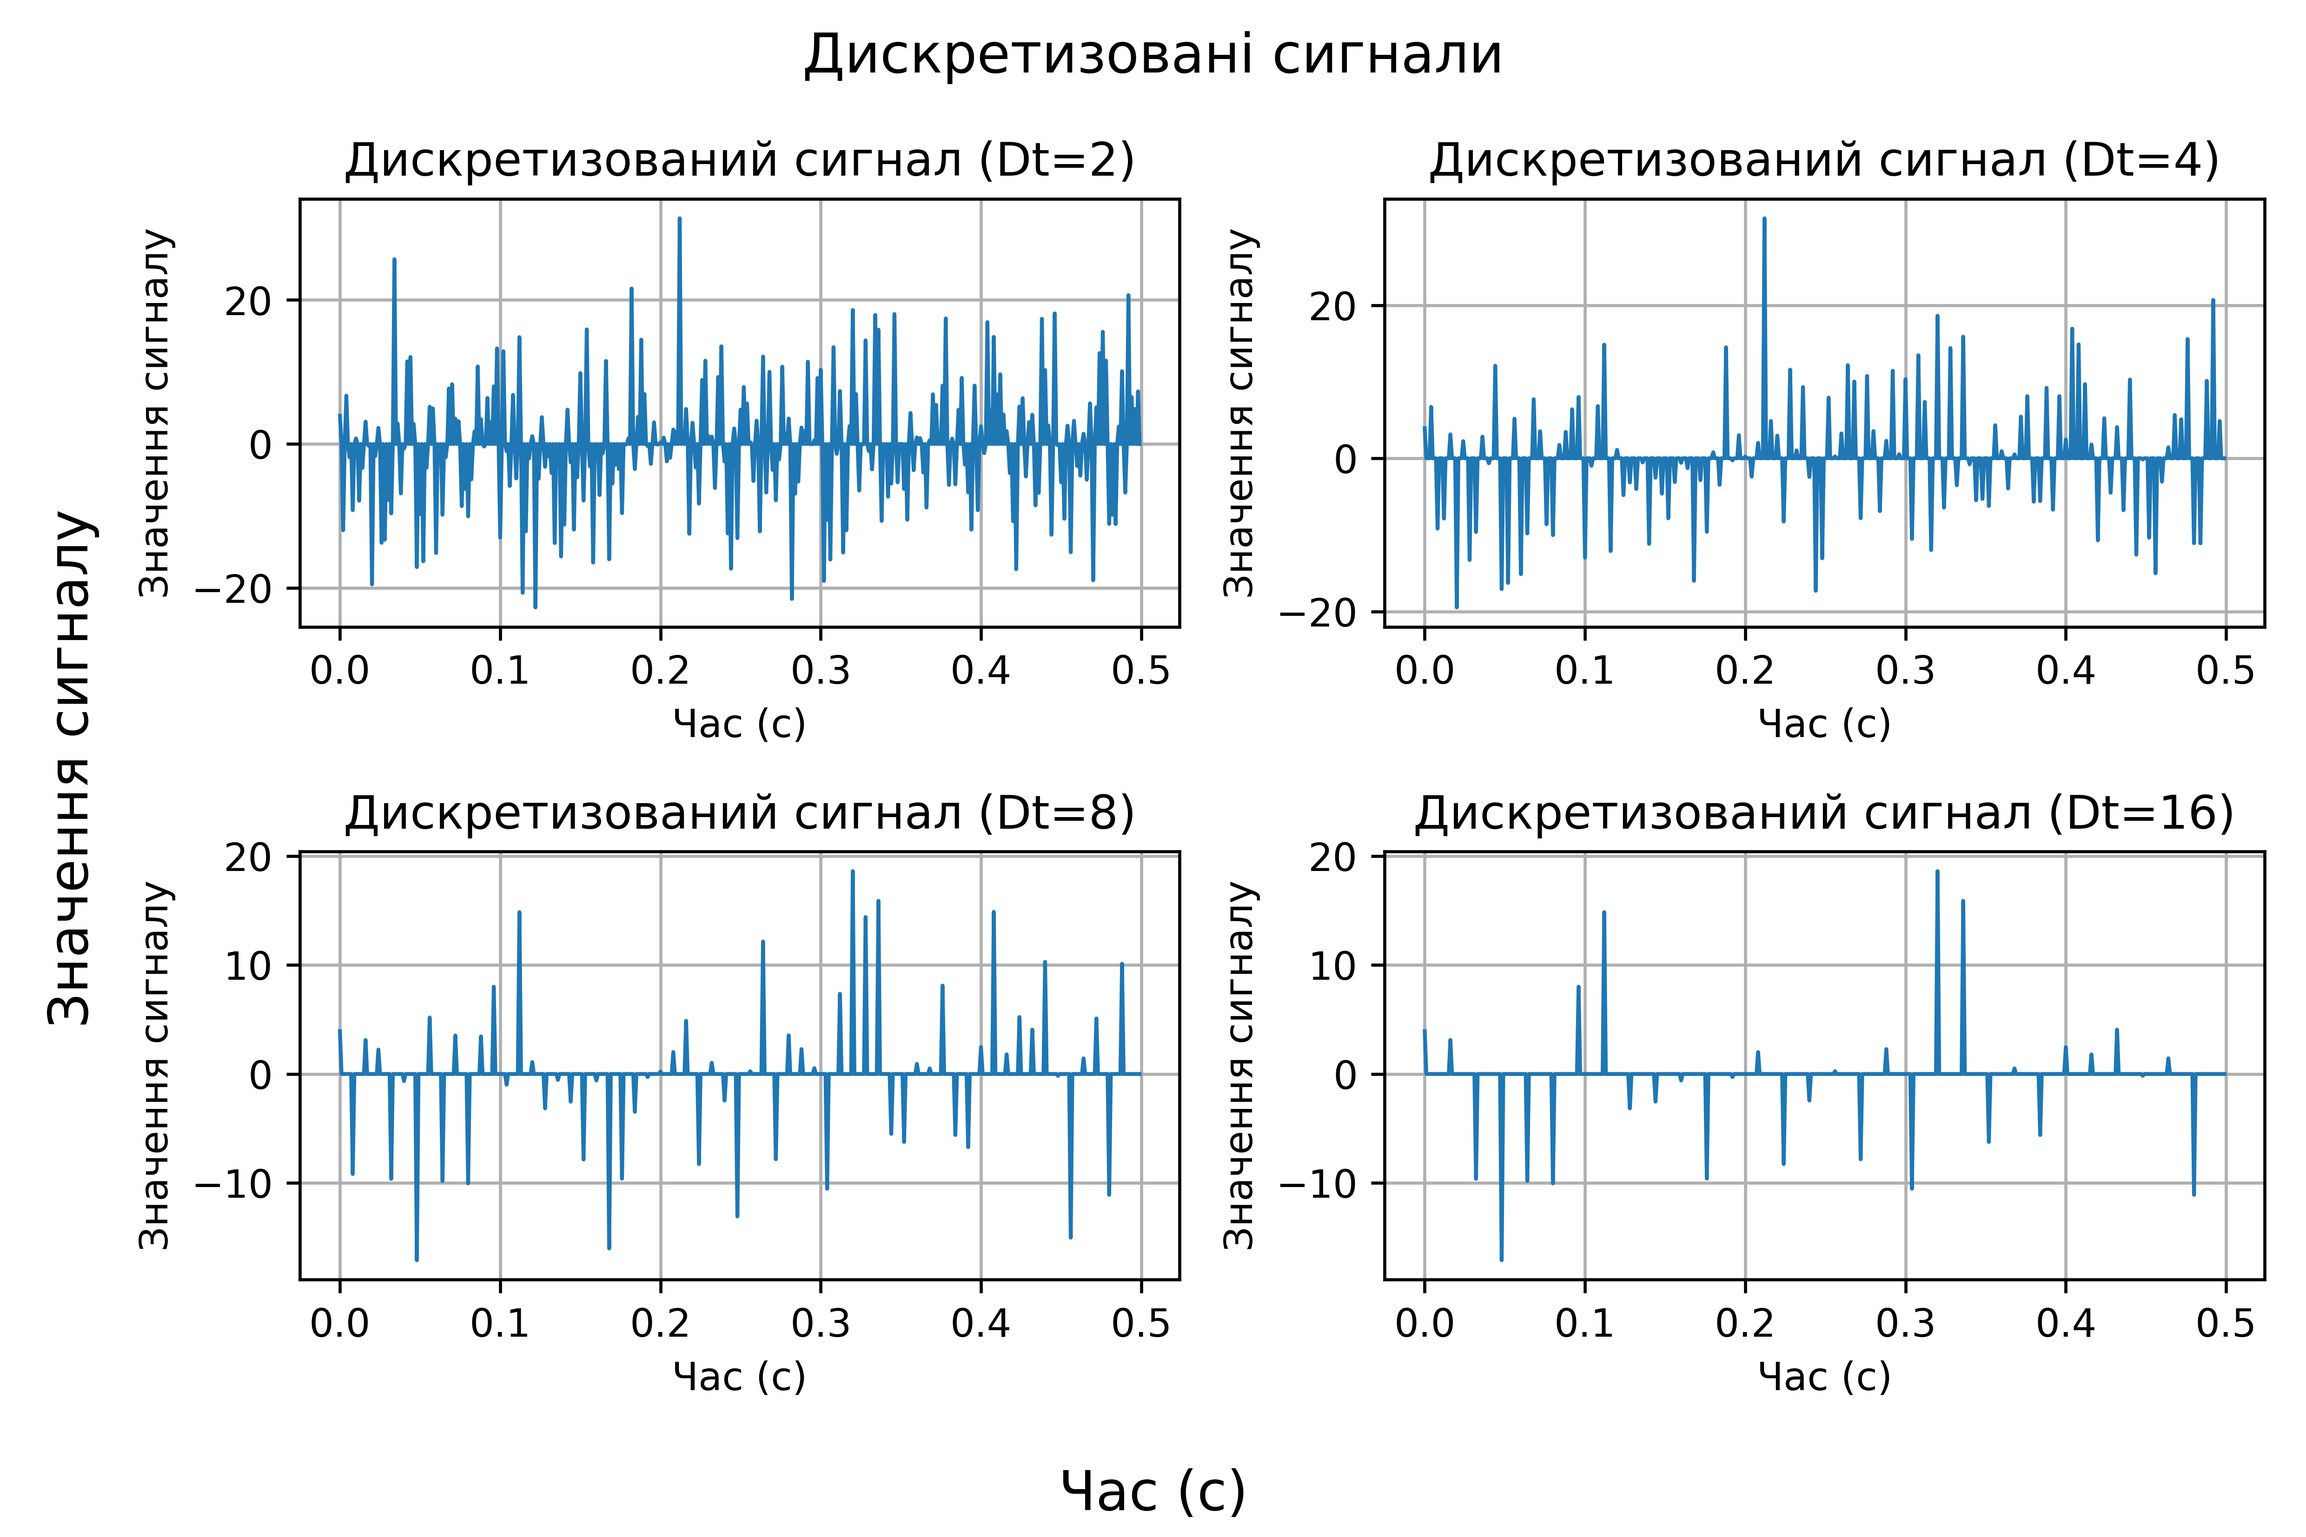
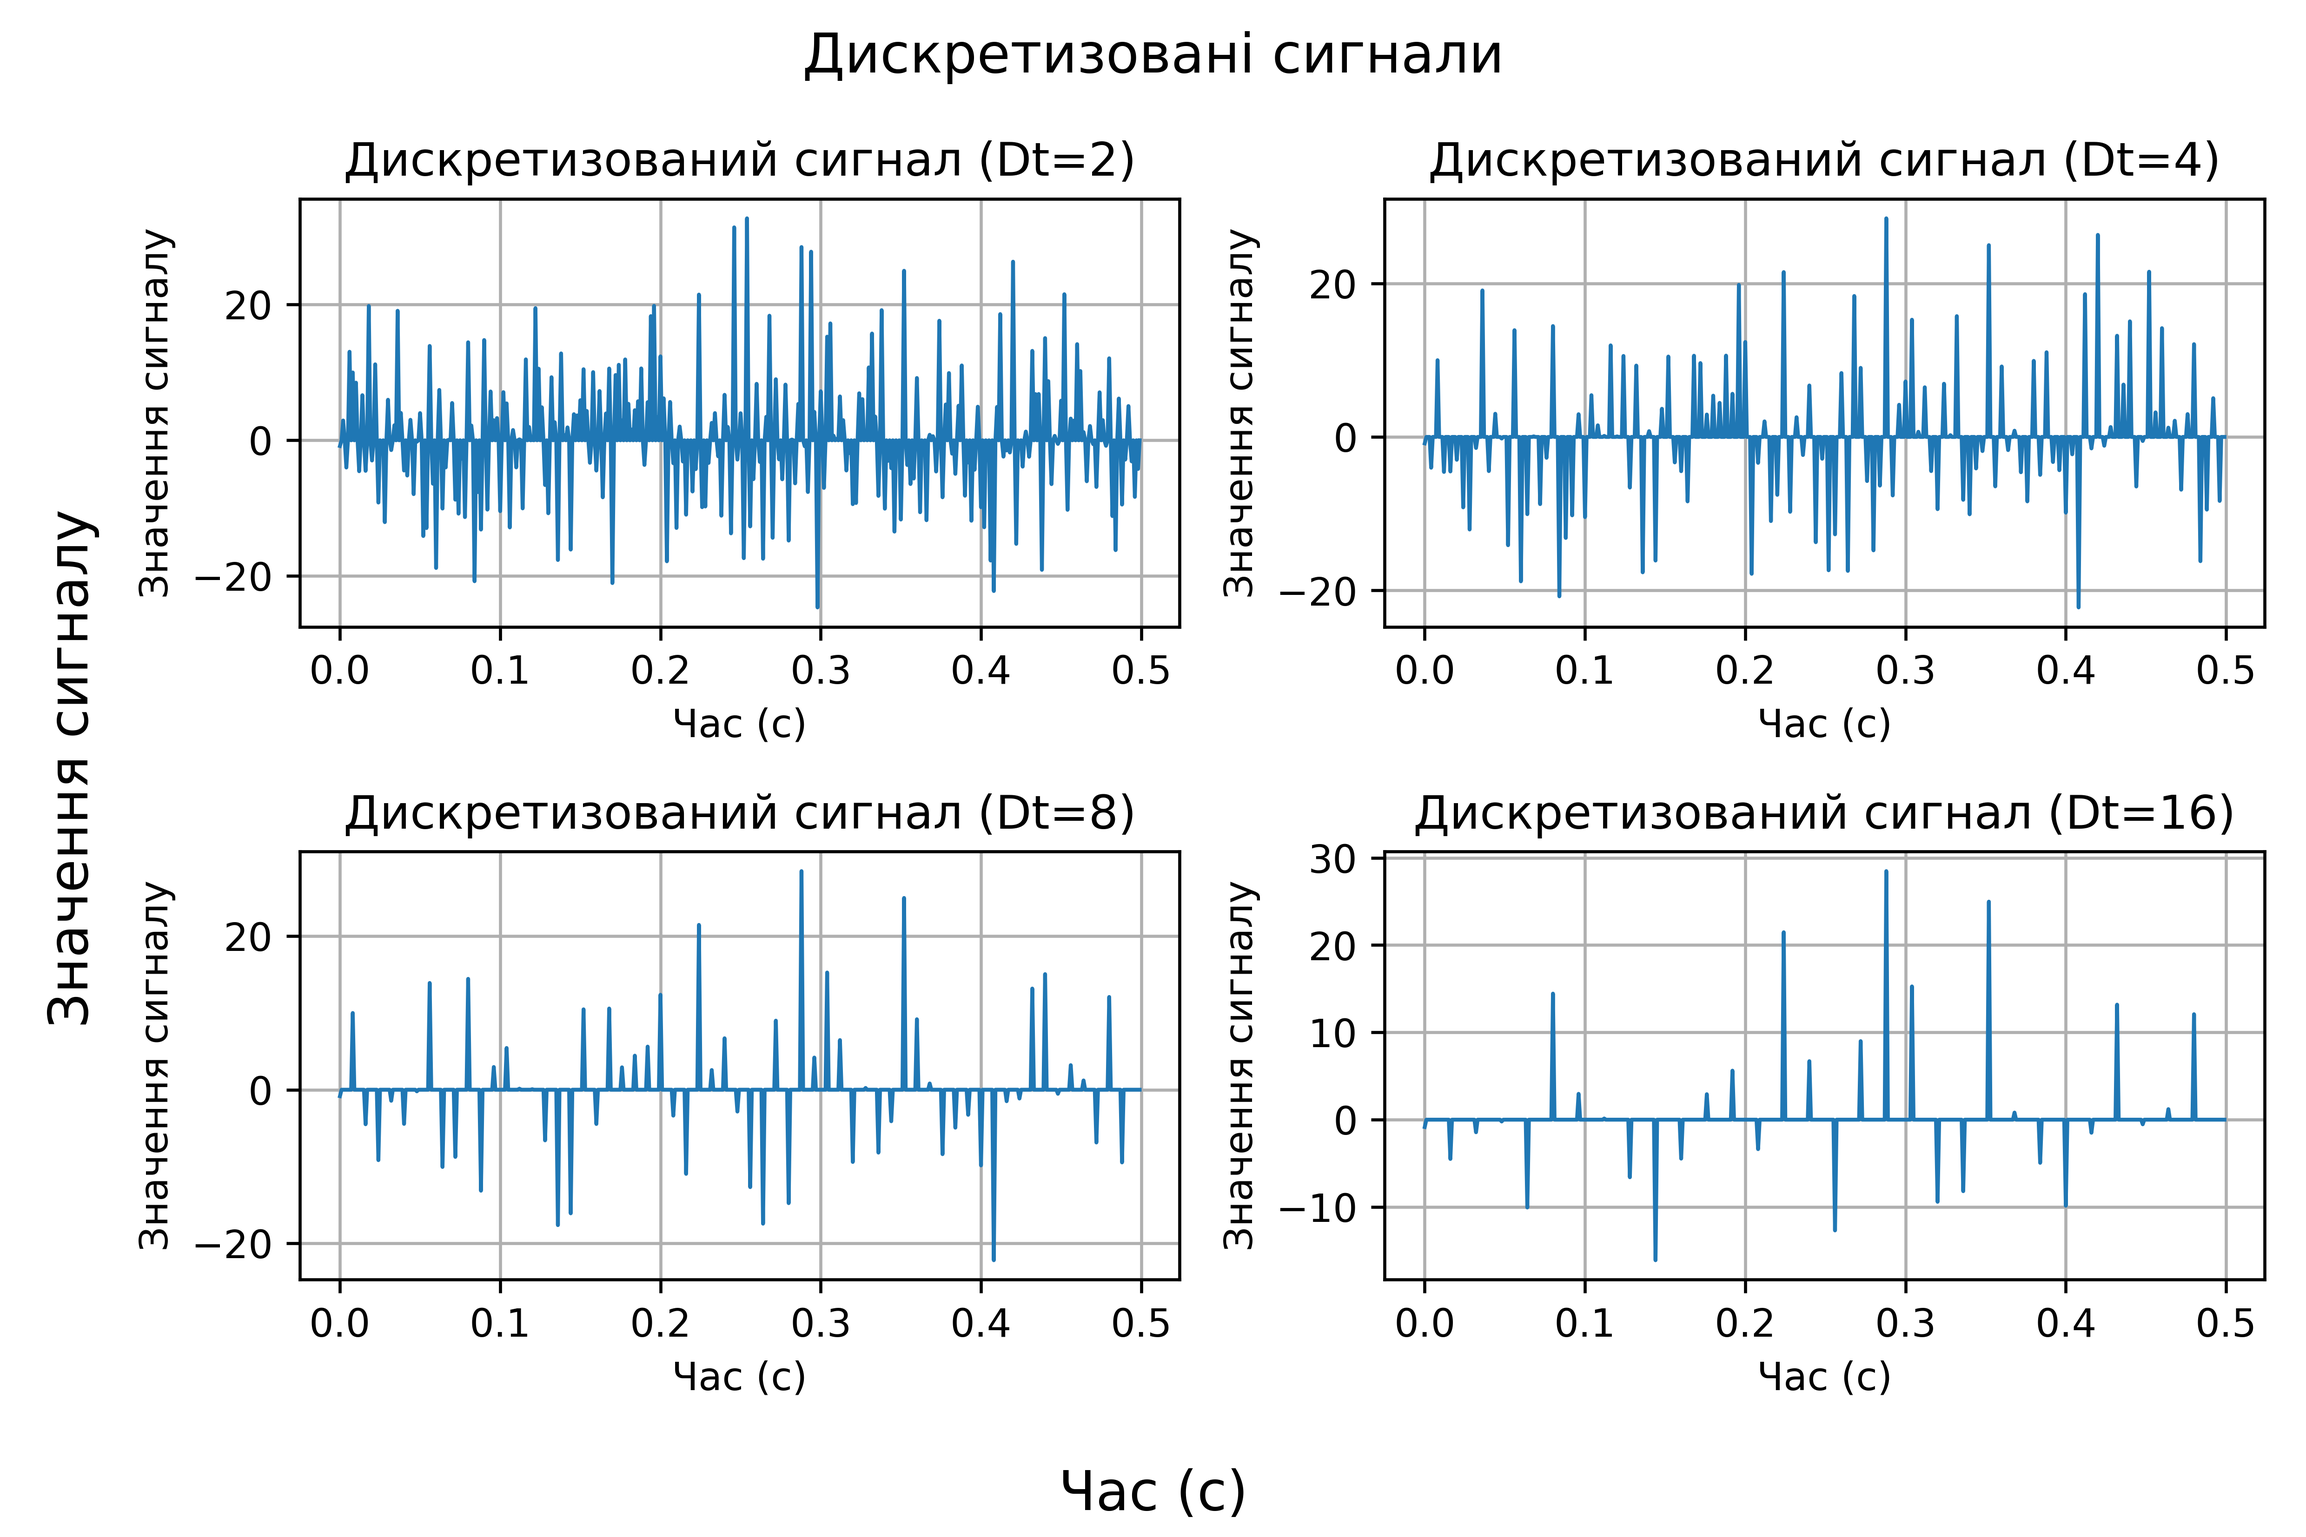
SignalProcessing 3

diff --git a/SignalProcessing/1.py b/SignalProcessing/1.py
@@ -1,157 +1,134 @@
 import numpy as np
+import scipy.signal
 import matplotlib.pyplot as plt
-from scipy import signal
-import os
-from scipy.fft import fft, fftshift, fftfreq
+from scipy import fft
 
-# Функція для генерування випадкового сигналу
-def generate_random_signal(mean, std_dev, num_elements):
-    return np.random.normal(mean, std_dev, num_elements)
 
-# Функція для побудови та збереження сигналу
-def plot_and_save_signal(time_values, signal_values, title, x_label, y_label, save_path=None):
-    plt.figure(figsize=(21 / 2.54, 14 / 2.54))
-    plt.plot(time_values, signal_values, linewidth=1)
+Fs = 1000
+F_max = 31
+F_filter = 38
+n = 500
+a = 0
+b = 10
+
+random = np.random.normal(a, b, n)
+x = np.arange(n)/Fs
+w = F_max/(Fs/2)
+parameters_filter = scipy.signal.butter(3, w, 'low', output='sos')
+
+y = scipy.signal.sosfiltfilt(parameters_filter, random)
+
+spectr = scipy.fft.fft(y)
+spectr = np.abs(scipy.fft.fftshift(spectr))
+length_signal = n
+frq = scipy.fft.fftfreq(length_signal, 1/length_signal)
+frq2 = scipy.fft.fftshift(frq)
+
+
+def pict(text, x, y, xLabel, yLabel):
+    title = text
+    fig, ax = plt.subplots(figsize=(21, 14))
+    ax.plot(x, y, linewidth=1)
+    ax.set_xlabel(xLabel, fontsize=14)
+    ax.set_ylabel(yLabel, fontsize=14)
     plt.title(title, fontsize=14)
-    plt.xlabel(x_label, fontsize=14)
-    plt.ylabel(y_label, fontsize=14)
-    plt.grid(True)
+    plt.show()
+    fig.savefig("./save3/" + title + ".png", dpi=600)
 
-    if save_path:
-        plt.savefig(save_path, dpi=600)
-    else:
-        plt.show()
 
-# Створення каталогу для збереження графіків
-output_directory = './figures/'
-os.makedirs(output_directory, exist_ok=True)
+discrete_signals = []
+discrete_signals_spectrums = []
+discrete_signals_FH4 = []
+discrete_signals_disp = []
+discrete_signals_noise = []
 
-# Параметри сигналу
-n = 500  # Довжина сигналу (відліки)
-Fs = 1000  # Частота дискретизації (Гц)
-F_max = 31  # Максимальна частота сигналу (Гц)
-
-# Генерація випадкового сигналу
-random_signal = generate_random_signal(0, 10, n)
-
-# Значення часу
-time_values = np.arange(n) / Fs
-
-# Параметри фільтру
-F_filter = 38  # Критична частота фільтра (Гц)
-w = F_filter / (Fs / 2)
-filter_params = signal.butter(3, w, 'low', output='sos')
-
-# Кроки дискретизації
-discretization_steps = [2, 4, 8, 16]
-
-# Фільтрація та відновлення аналогового сигналу з дискретного
-restored_signals = []
-variances = []
-snr_ratios = []
-discretized_signals = []
-
-for Dt in discretization_steps:
+for Dt in [2, 4, 8, 16]:
     discrete_signal = np.zeros(n)
-    for i in range(0, round(n / Dt)):
-        discrete_signal[i * Dt] = random_signal[i * Dt]
+    for i in range(0, round(n/Dt)):
+        discrete_signal[i * Dt] = y[i * Dt]
+    discrete_signals.append(list(discrete_signal))
+    discrete_signal_spectrum = scipy.fft.fft(discrete_signal)
+    discrete_signal_spectrum = np.abs(scipy.fft.fftshift(discrete_signal_spectrum))
+    discrete_signals_spectrums.append(list(discrete_signal_spectrum))
+    w = F_filter/(Fs/2)
+    parameters_filter = scipy.signal.butter(3, w, 'low', output='sos')
+    y_discrete = scipy.signal.sosfiltfilt(parameters_filter, discrete_signal)
+    discrete_signals_FH4.append(list(y_discrete))
+    El = y_discrete - y
+    D = np.var(El)
+    discrete_signals_disp.append(D)
+    snr = np.var(y)/D
+    discrete_signals_noise.append(snr)
 
-    # Фільтрація дискретного сигналу
-    restored_signal = signal.sosfiltfilt(filter_params, discrete_signal)
-    restored_signals.append(restored_signal)
 
-    # Розрахунок різниці між відновленим і початковим сигналом
-    E1 = restored_signal - random_signal
+def pict2(text, x, y):
+    title = text
+    fig, ax = plt.subplots(2, 2, figsize=(16/2.54, 14/2.54))
+    s = 0
+    for i in range(0, 2):
+        for j in range(0, 2):
+            ax[i][j].plot(x, y[s], linewidth=1)
+            s += 1
+    fig.supxlabel("Час (секунди)", fontsize=14)
+    fig.supylabel("Амплітуда сигналу", fontsize=14)
+    fig.suptitle(title, fontsize=14)
+    fig.savefig("./save3/" + title + ".png", dpi=600)
+    plt.show()
 
-    # Розрахунок дисперсій
-    variance_original = np.var(random_signal)
-    variance_difference = np.var(E1)
-    variances.append(variance_difference)
 
-    # Розрахунок співвідношення сигнал-шум
-    snr_ratio = variance_original / variance_difference
-    snr_ratios.append(snr_ratio)
+quantum_signals = []
+quantum_signals_disp = []
+quantum_signals_noise = []
 
-    # Збереження дискретизованого сигналу
-    discretized_signals.append(discrete_signal)
+for M in [4, 16, 64, 256]:
+    bits = []
+    delta = (np.max(y) - np.min(y)) / (M - 1)
+    quantize_signal = delta * np.round(y / delta)
+    quantum_signals.append(list(quantize_signal))
+    quantize_levels = np.arange(np.min(quantize_signal), np.max(quantize_signal)+1, delta)
+    quantize_bit = np.arange(0, M)
+    quantize_bit = [format(bits, '0' + str(int(np.log(M) / np.log(2))) + 'b') for bits in quantize_bit]
+    quantize_table = np.c_[quantize_levels[:M], quantize_bit[:M]]
 
-# Побудова графіків дискретизованих сигналів
-fig, axes = plt.subplots(2, 2, figsize=(21 / 2.54, 14 / 2.54))
+    fig, ax = plt.subplots(figsize=(14 / 2.54, M / 2.54))
+    table = ax.table(cellText=quantize_table, colLabels=['Значення сигналу', 'Кодова послідовність'], loc='center')
+    table.set_fontsize(14)
+    table.scale(1, 2)
+    ax.axis('off')
+    title = f"Таблиця квантування для {M} рівнів"
+    fig.savefig("./save3/" + title + ".png", dpi=600)
+    plt.show()
 
-for i, ax in enumerate(axes.flat):
-    ax.plot(time_values, discretized_signals[i], linewidth=1)
-    ax.set_title(f'Дискретизований сигнал (Dt={discretization_steps[i]})')
-    ax.set_xlabel('Час (с)')
-    ax.set_ylabel('Значення сигналу')
-    ax.grid(True)
+    for signal_value in quantize_signal:
+        for index, value in enumerate(quantize_levels[:M]):
+            if np.round(np.abs(signal_value - value), 0) == 0:
+                bits.append(quantize_bit[index])
+                break
 
-fig.suptitle('Дискретизовані сигнали', fontsize=14)
-fig.supxlabel('Час (с)', fontsize=14)
-fig.supylabel('Значення сигналу', fontsize=14)
-plt.tight_layout()
-plt.savefig(output_directory + 'discretized_signals.png', dpi=600)
-plt.show()
+    bits = [int(item) for item in list(''.join(bits))]
 
-# Розрахунок спектрів дискретизованих сигналів
-discrete_spectrums = []
+    fig, ax = plt.subplots(figsize=(21 / 2.54, 14 / 2.54))
+    x_bits = np.arange(0, len(bits))
+    y_bits = bits
+    ax.step(x_bits, y_bits, linewidth=0.1)
 
-for discrete_signal in discretized_signals:
-    spectrum = fft(discrete_signal)
-    shifted_spectrum = fftshift(spectrum)
-    frequencies = fftshift(fftfreq(len(discrete_signal), 1/Fs))
-    discrete_spectrums.append(shifted_spectrum)
+    title = f"Кодова послідовність сигналу при кількості рівнів квантування {M}"
+    fig.supxlabel("Біти", fontsize=14)
+    fig.supylabel("Амплітуда сигналу", fontsize=14)
+    fig.suptitle(title, fontsize=14)
+    fig.savefig("./save3/" + title + ".png", dpi=600)
+    plt.show()
 
-# Відображення спектрів дискретизованих сигналів
-fig, axes = plt.subplots(2, 2, figsize=(21/2.54, 14/2.54))
+    El = quantize_signal - y
+    D = np.var(El)
+    quantum_signals_disp.append(D)
+    snr = np.var(y) / D
+    quantum_signals_noise.append(snr)
 
-for i, ax in enumerate(axes.flat):
-    ax.plot(frequencies, abs(discrete_spectrums[i]), linewidth=1)
-    ax.set_title(f'Дискретний спектр (Dt={discretization_steps[i]})')
-    ax.set_xlabel('Частота (Гц)')
-    ax.set_ylabel('Амплітуда')
-    ax.grid(True)
+pict2("Цифрові сигнали за рівнями квантування (4, 16, 64, 256)", x, quantum_signals)
 
-fig.suptitle('Дискретні спектри дискретизованих сигналів', fontsize=14)
-fig.supxlabel('Частота (Гц)', fontsize=14)
-fig.supylabel('Амплітуда', fontsize=14)
-plt.tight_layout()
-plt.savefig(output_directory + 'discrete_spectra.png', dpi=600)
-plt.show()
+pict("Залежність дисперсії від кількості рівнів квантування",
+     [4, 16, 64, 256], quantum_signals_disp, "Кількість рівнів квантування", "Дисперсія")
 
-# Відображення результатів відновлених сигналів
-fig, axes = plt.subplots(2, 2, figsize=(21 / 2.54, 14 / 2.54))
-
-for i, ax in enumerate(axes.flat):
-    ax.plot(time_values, restored_signals[i], linewidth=1)
-    ax.set_title(f'Відновлений сигнал (Dt={discretization_steps[i]})')
-    ax.set_xlabel('Час (с)')
-    ax.set_ylabel('Значення сигналу')
-    ax.grid(True)
-
-fig.suptitle('Відновлені сигнали', fontsize=14)
-fig.supxlabel('Час (с)', fontsize=14)
-fig.supylabel('Значення сигналу', fontsize=14)
-plt.tight_layout()
-plt.savefig(output_directory + 'restored_signals.png', dpi=600)
-plt.show()
-
-# Побудова залежності різниці дисперсій від кроку дискретизації
-plt.figure(figsize=(8, 6))
-plt.plot(discretization_steps, variances, marker='o', linestyle='-')
-plt.title('Залежність різниці дисперсій від кроку дискретизації')
-plt.xlabel('Крок дискретизації')
-plt.ylabel('Різниця дисперсій')
-plt.grid(True)
-plt.savefig(output_directory + 'variance_difference.png', dpi=600)
-plt.show()
-
-# Побудова залежності співвідношення сигнал-шум від кроку дискретизації
-plt.figure(figsize=(8, 6))
-plt.plot(discretization_steps, snr_ratios, marker='o', linestyle='-')
-plt.title('Залежність співвідношення сигнал-шум від кроку дискретизації')
-plt.xlabel('Крок дискретизації')
-plt.ylabel('Співвідношення сигнал-шум')
-plt.grid(True)
-plt.savefig(output_directory + 'snr_ratio.png', dpi=600)
-plt.show()
-
+pict("Залежність співвідношення сигнал-шум від кількості рівнів квантування",
+     [4, 16, 64, 256], quantum_signals_noise, "Кількість рівнів квантування", "ССШ")
